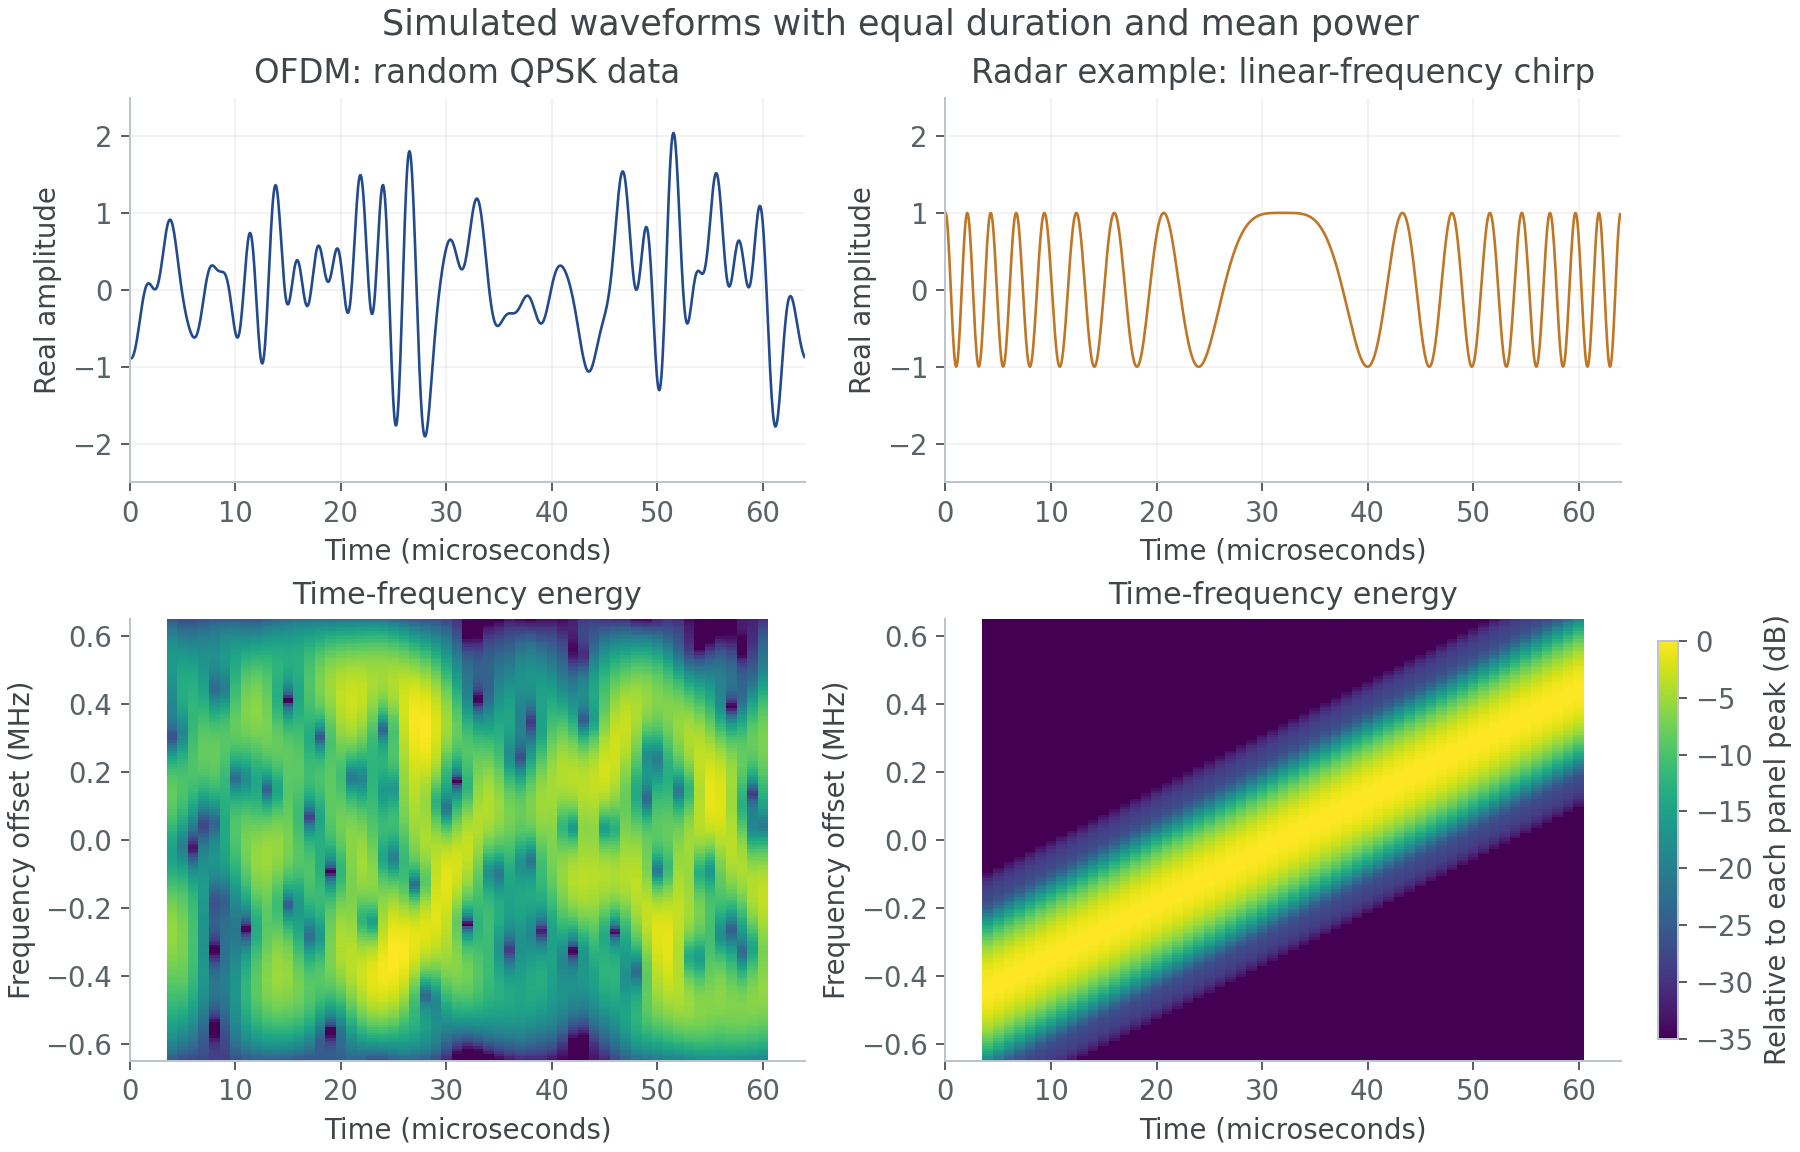
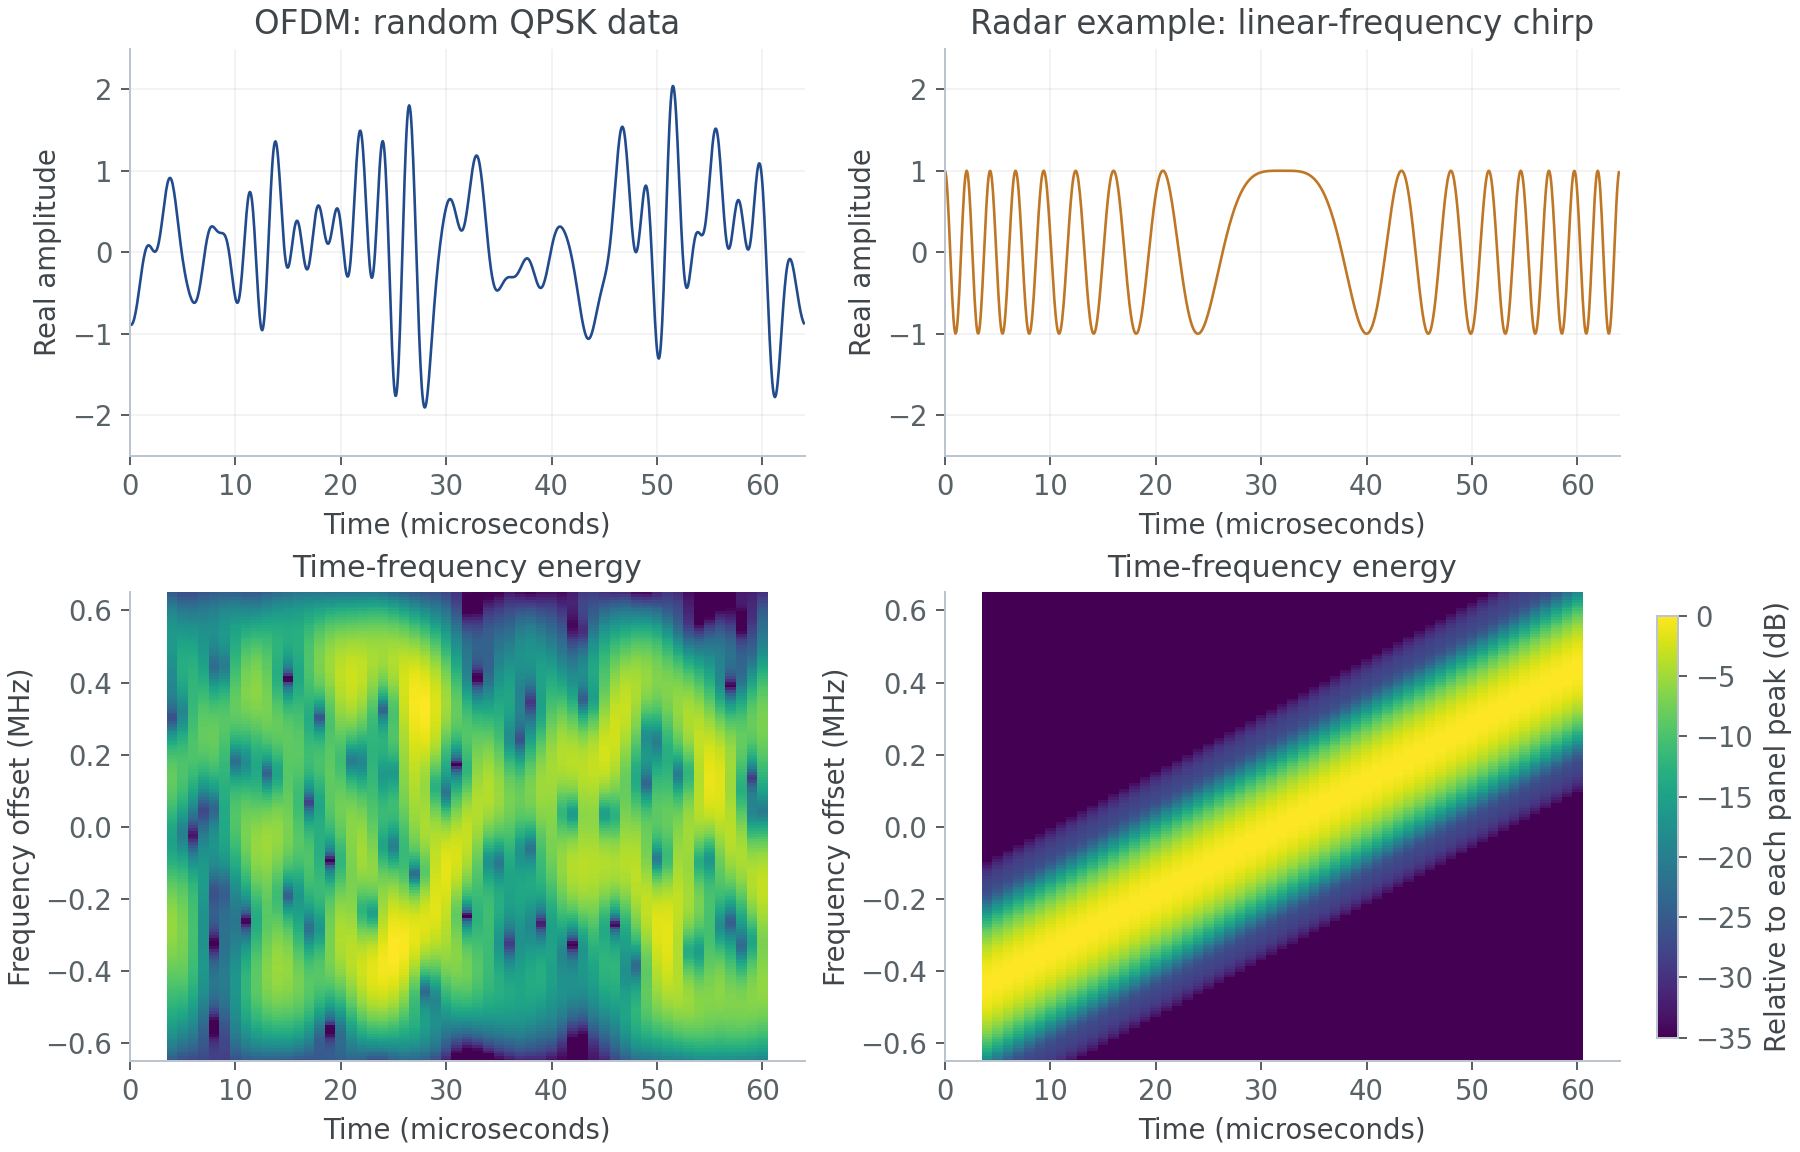
Clarify the ISAC waveform comparison and remove the figure supertitle

diff --git a/blog-data.js b/blog-data.js
@@ -611,22 +611,22 @@ window.BLOG_POSTS = [
       },
       {
         "type": "p",
-        "text": "Information comes from choosing among possible waveforms, so data-bearing OFDM changes with the message and looks irregular in time. A radar chirp follows a prescribed frequency sweep, giving a controlled reference against which to compare the echo. The design tension is giving data enough freedom while keeping the waveform’s delay–Doppler response useful for sensing."
+        "text": "OFDM’s subcarrier symbols change with the data, so their sum looks irregular and changes from message to message. A radar chirp sweeps frequency at a known rate. For a stationary target, its delayed echo corresponds to an earlier point on that sweep, so the frequency difference reveals the round-trip delay and hence range. Adding data can disturb that regularity and the echo response, so ISAC design has to carry information while keeping target estimates reliable."
       },
       {
         "type": "figure",
-        "src": "assets/notes/isac-ofdm-and-chirp.png",
+        "src": "assets/notes/isac-ofdm-and-chirp.png?v=2",
         "alt": "Simulated OFDM with random QPSK data compared with a linear-frequency radar chirp at equal duration and mean power. Real waveforms appear above time-frequency energy maps; the chirp has a clear frequency sweep.",
         "width": 1800,
         "height": 1152
       },
       {
         "type": "p",
-        "text": "Once transmitted, the particular OFDM waveform is known to its transmitter and can also serve as a sensing reference. Joint design controls how its changing data affects echo estimation."
+        "text": "The exact transmitted OFDM waveform is also known to its transmitter, so it can be used as the sensing reference."
       },
       {
         "type": "p",
-        "text": "Propagation brings another tension. Paths with distinguishable spatial responses can increase MIMO channel rank and support independent streams. The usual single-path plane-wave model has rank one; near-field geometry can also support multiple LoS modes. For radar, an indirect reflection can look like an echo from another location, producing a ghost target. The same extra path can add communication freedom and complicate environmental interpretation."
+        "text": "Propagation brings another tension. Paths with distinguishable spatial responses can increase MIMO channel rank and support independent streams. The usual single-path plane-wave model has rank one. For radar, an indirect reflection can look like an echo from another location, producing a ghost target. The same extra path can add communication freedom and complicate environmental interpretation."
       },
       {
         "type": "p",

diff --git a/blog.html b/blog.html
@@ -17,7 +17,7 @@
     <script src="site-data.js?v=20261019-awards" defer></script>
     <link rel="stylesheet" href="blog.css?v=6" />
     <script src="script.js?v=23" defer></script>
-    <script src="blog-data.js?v=33" defer></script>
+    <script src="blog-data.js?v=34" defer></script>
     <script src="blog.js?v=5" defer></script>
   </head>
   <body class="theme-editorial" data-page="blog">
